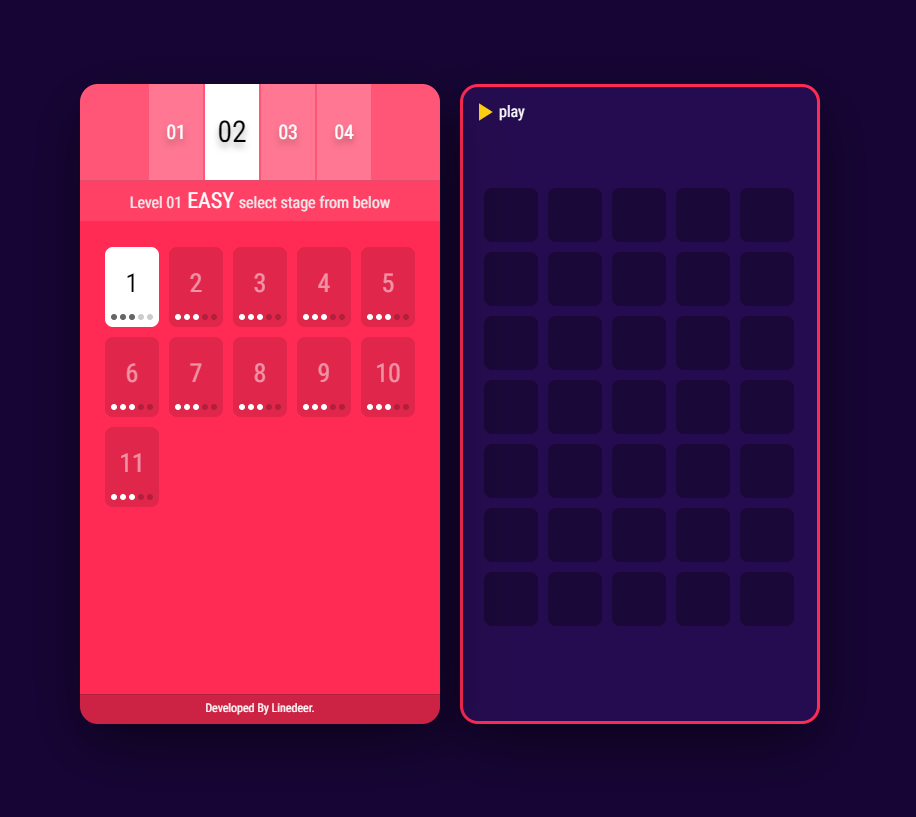
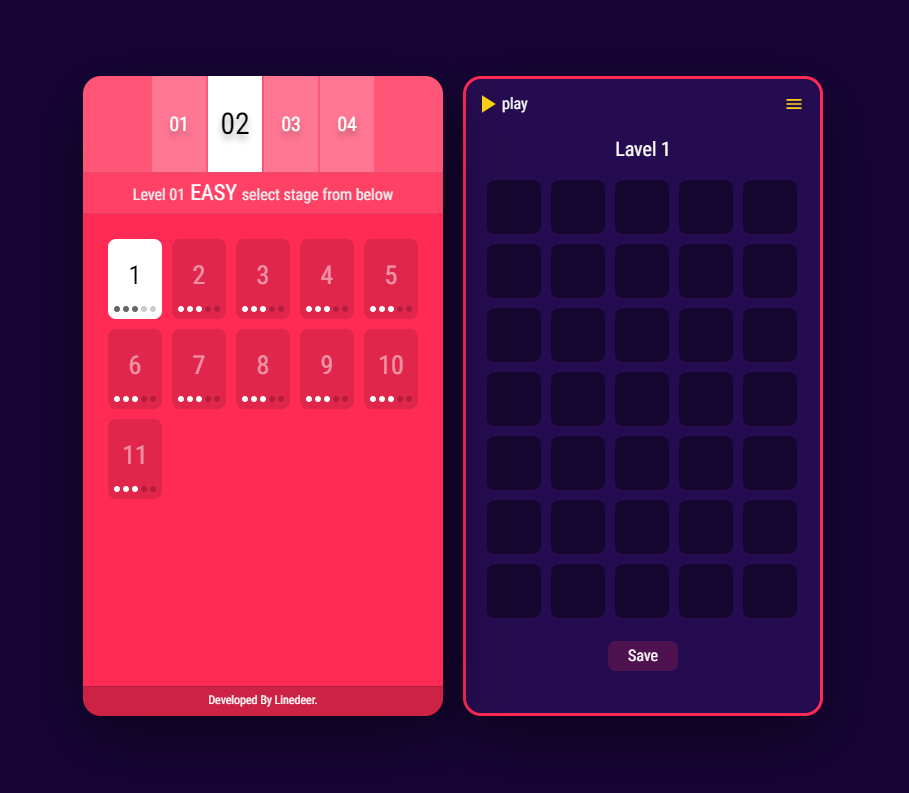
Update.

Changed region(s): [[0.0616, 0.0908, 0.9241, 0.9079]]

diff --git a/ui/src/Dashboard/Screens/Editor/Editor.scss b/ui/src/Dashboard/Screens/Editor/Editor.scss
@@ -21,15 +21,13 @@
     transition: opacity 200ms;
     border: 3px solid #ff2b55;
     box-sizing: border-box;
-    transform: translate3d(0,0,0);
-
-    >.Title {
+    transform: translate3d(0, 0, 0);
+    > .Title {
       position: relative;
       width: 100%;
       float: left;
       height: 80px;
-
-      >.Play {
+      > .Play {
         width: auto;
         height: 30px;
         position: absolute;
@@ -44,15 +42,14 @@
           left: 0;
           float: left;
         }
-        &:hover{
+        &:hover {
           background-color: #ffffff30;
           border-radius: 7px;
           left: 9px;
           cursor: pointer;
         }
       }
-
-      >.MenuIcon {
+      > .Menu {
         width: auto;
         height: auto;
         position: relative;
@@ -67,21 +64,23 @@
           right: 0;
           float: right;
         }
-        &:hover{
+        &:hover {
           background-color: #ffffff30;
           border-radius: 7px;
           right: 11px;
           cursor: pointer;
         }
       }
-
+      > .Lable {
+        position: absolute;
+        bottom: 0px;
+        width: 100%;
+        height: 20px;
+        line-height: 20px;
+        text-align: center;
+        font-size: 20px;
+      }
     }
-
-
-
-
-
-
     > .Boxes {
       width: 354px;
       height: auto;
@@ -90,7 +89,7 @@
       float: left;
       box-sizing: border-box;
       .Box {
-        background-color: rgba(0, 0, 0, 0.3);
+        background-color: rgba(0, 0, 0, 0.4);
         height: 54px;
         width: 54px;
         border-radius: 8px;
@@ -99,9 +98,33 @@
         position: relative;
         float: left;
         transition: background-color 300ms;
+        > .Border {
+          width: 62px;
+          height: 62px;
+          position: absolute;
+          top: -4px;
+          left: -4px;
+          border: 2px solid #00bcd4;
+          box-sizing: border-box;
+          border-radius: 10px;
+          opacity: 0;
+          pointer-events: none;
+          transition: opacity 500ms;
+        }
+        &:hover {
+          > .Border {
+            opacity: 0.4;
+            transition: opacity 200ms;
+          }
+        }
+      }
+      > .Background {
+        position: absolute;
       }
       > .Playground {
-        >.Box {
+        position: relative;
+        float: left;
+        > .Box {
           background-color: transparent;
         }
       }
@@ -110,6 +133,24 @@
         float: left;
         width: 100%;
         height: auto;
+      }
+    }
+    > .Save {
+      position: relative;
+      width: 70px;
+      height: 30px;
+      float: left;
+      line-height: 30px;
+      background: #ff2b5530;
+      text-align: center;
+      border-radius: 8px;
+      left: 50%;
+      margin-left: -35px;
+      top: 12px;
+      transition: all 200ms;
+      &:hover {
+        background: #ff2b55;
+        cursor: pointer;
       }
     }
   }

diff --git a/ui/src/Dashboard/Screens/Editor/Editor.tsx b/ui/src/Dashboard/Screens/Editor/Editor.tsx
@@ -9,7 +9,7 @@ export class Editor extends React.Component<any, any> {
     getBackgroundBoxes() {
         const list = [];
         for (let i = 0; i < 35; i++) {
-            list.push(<div className={'Box'}></div>)
+            list.push(<div className={'Box'} key={i}></div>)
         }
         return list;
     }
@@ -17,7 +17,9 @@ export class Editor extends React.Component<any, any> {
     getPlaygroundBoxes() {
         const list = [];
         for (let i = 0; i < 35; i++) {
-            list.push(<div className={'Box'}></div>)
+            list.push(<div className={'Box'} key={i}>
+                <div className={'Border'}></div>
+            </div>)
         }
         return list;
     }
@@ -31,22 +33,23 @@ export class Editor extends React.Component<any, any> {
                     </svg>
                     <span className={'lable'}>play</span>
                 </div>
-                <div className={'MenuIcon'}>
+                <div className={'Menu'}>
                     <svg xmlns="http://www.w3.org/2000/svg" width="20" height="20" viewBox="0 0 24 24">
                         <path d="M0 0h24v24H0z" fill="none"/>
                         <path d="M3 18h18v-2H3v2zm0-5h18v-2H3v2zm0-7v2h18V6H3z" fill="#ffd210"/>
                     </svg>
                 </div>
-                <div className={'Menu'}></div>
+                <div className={'Lable'}>Lavel 1</div>
             </div>
             <div className={'Boxes'}>
-                <div className={'Playground'}>
-                    {this.getPlaygroundBoxes()}
-                </div>
                 <div className={'Background'}>
                     {this.getBackgroundBoxes()}
                 </div>
+                <div className={'Playground'}>
+                    {this.getPlaygroundBoxes()}
+                </div>
             </div>
+            <div className={'Save'}>Save</div>
         </div>);
     }
 

diff --git a/ui/src/Dashboard/Screens/Board/Menu.tsx b/ui/src/Dashboard/Screens/Board/Menu.tsx
@@ -30,7 +30,6 @@ class MenuCmp extends React.Component<any, any> {
     }
 
     render() {
-        console.log(this.props)
         return (
             <div className={'Menu'}>
                 <div className={'Holder'}>
